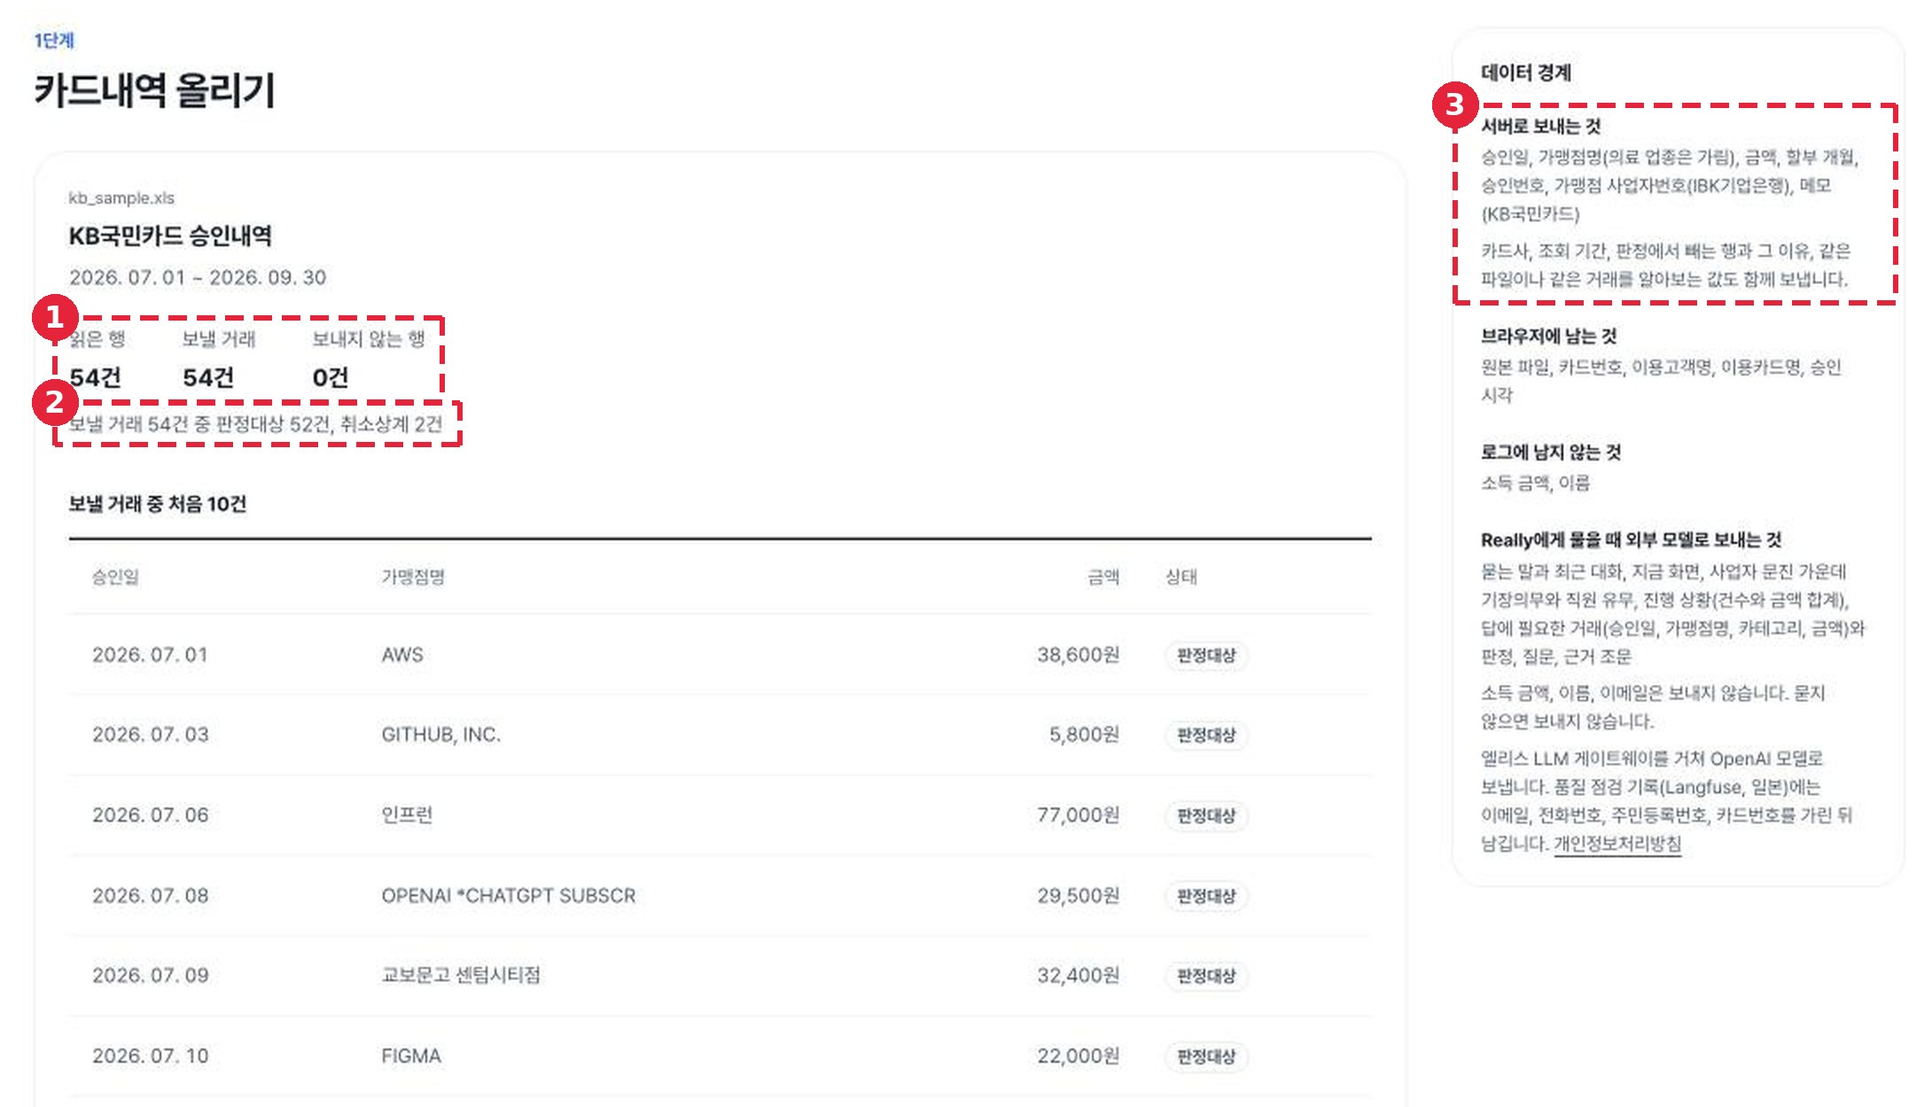
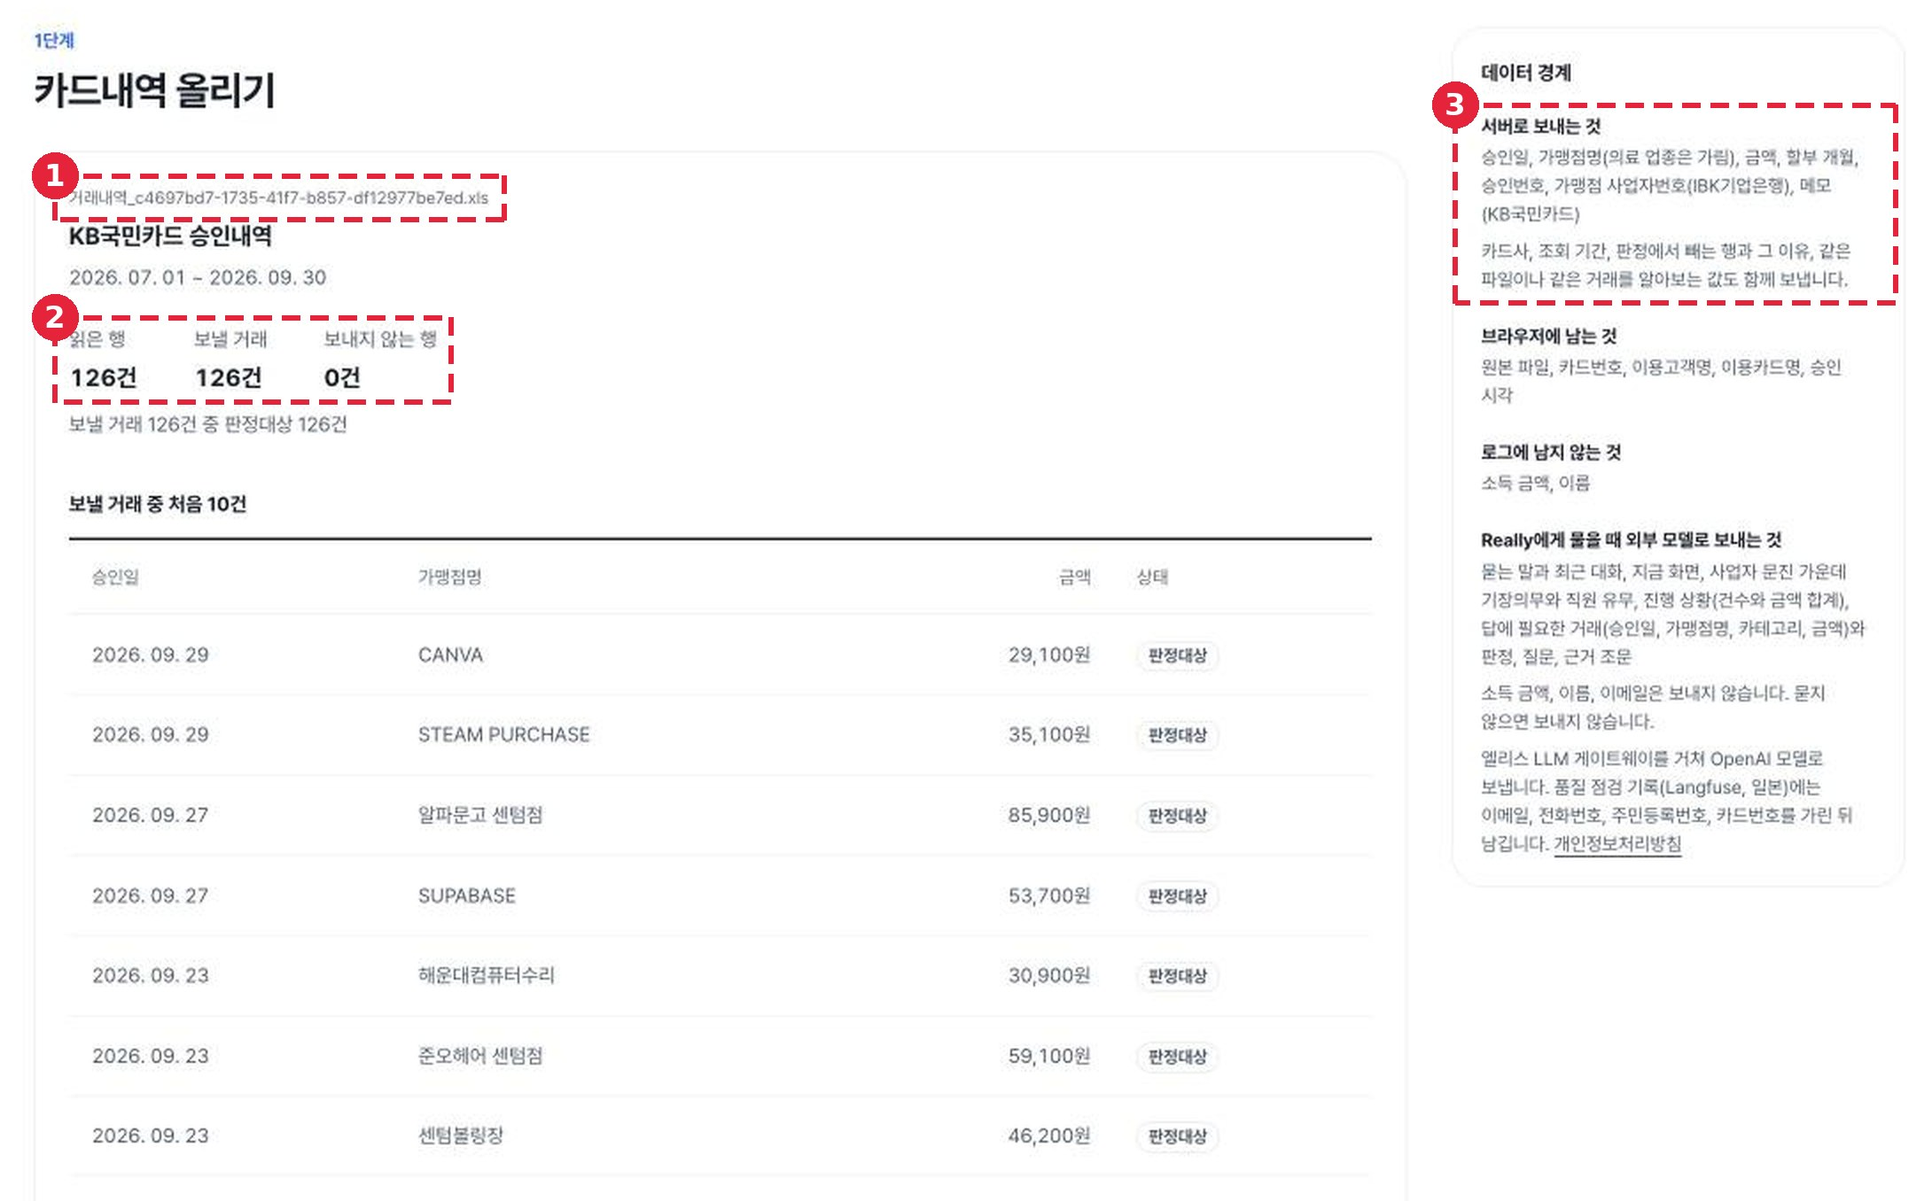
docs: 멘토 가이드를 무작위 카드내역 만들기 기준으로 다시 찍는다
#285 배포(#287) 뒤 업로드를 「무작위 카드내역 만들기」로 안내하고 3·5~9단계 캡처를 새로 찍었다.
분류 확인과 질문 일부 예시는 KB 샘플 캡처를 남기고, 무작위 데이터에서 다시 할 수 없는 중복 업로드 항목은 뺐다.

diff --git a/docs/mentor-guide/index.html b/docs/mentor-guide/index.html
@@ -141,11 +141,11 @@ table.example td:first-child{color:var(--muted);white-space:normal;width:50%}
 <body>
 <header class="top">
   <h1>PreeT 멘토 테스트 가이드</h1>
-  <p>PreeT는 1인 프리랜서(업종코드 940909)의 카드 승인내역을 올리면, 거래마다 경비로 넣을 수 있는지 판정하고 근거 조문을 보여주는 서비스입니다. 업로드 화면에 준비된 샘플 파일로 아래 순서를 따라가시면 서비스 전체 흐름을 한 번 보실 수 있습니다.</p>
+  <p>PreeT는 1인 프리랜서(업종코드 940909)의 카드 승인내역을 올리면, 거래마다 경비로 넣을 수 있는지 판정하고 근거 조문을 보여주는 서비스입니다. 업로드 화면에서 무작위 카드내역을 만들어 아래 순서를 따라가시면 서비스 전체 흐름을 한 번 보실 수 있습니다.</p>
   <ul class="facts">
     <li><b>주소</b><span>ktc4-pusan-4.duckdns.org</span></li>
     <li><b>계정</b><span>직접 가입 (어려우면 샘플 계정, 1단계)</span></li>
-    <li><b>샘플</b><span>업로드 화면의 「샘플 파일로 해 보기」</span></li>
+    <li><b>샘플 데이터</b><span>업로드 화면의 「무작위 카드내역 만들기」</span></li>
     <li><b>소요 시간</b><span>10~15분</span></li>
   </ul>
   <div class="cta">
@@ -170,7 +170,7 @@ table.example td:first-child{color:var(--muted);white-space:normal;width:50%}
           <tr><td><span class="v pend">답변 대기</span></td><td>개인 지출로 보여 일단 뺐지만, 업무였다고 답하면 다시 판정합니다.</td></tr>
         </tbody>
       </table>
-      <p class="hint">사진 속 빨간 번호는 사진 아래 설명의 번호와 같습니다. 사진을 누르면 크게 열립니다. 사진 속 거래와 금액은 예시이고, 직접 넣으신 값과 고르신 답에 따라 달라집니다.</p>
+      <p class="hint">사진 속 빨간 번호는 사진 아래 설명의 번호와 같습니다. 사진을 누르면 크게 열립니다. 사진 속 거래와 금액은 예시입니다. 카드내역이 매번 무작위로 만들어지고, 직접 넣으신 값과 고르신 답에 따라서도 달라집니다.</p>
     </div>
 
     <section class="step" id="s1" data-title="회원가입 · 로그인">
@@ -238,29 +238,29 @@ table.example td:first-child{color:var(--muted);white-space:normal;width:50%}
       <div class="num">3</div>
       <div class="body">
         <h2>카드내역 업로드</h2>
-        <p>업로드 화면 아래 「샘플 파일로 해 보기」에서 <b>KB국민카드 승인내역</b>을 누릅니다. 따로 파일을 준비하지 않아도 됩니다.</p>
+        <p>업로드 화면 아래 「샘플 파일로 해 보기」에서 <b>무작위 카드내역 만들기</b>를 누릅니다. 따로 파일을 준비하지 않아도 됩니다. 누를 때마다 새 카드내역이 만들어지므로, 멘토님마다 다른 데이터로 테스트하시게 됩니다.</p>
         <figure class="shot"><a href="img/03-upload.jpg" target="_blank"><img src="img/03-upload.jpg" alt="카드내역 올리기 화면" loading="lazy"></a></figure>
         <ol class="points">
-          <li>시연용 샘플이 KB국민카드 · IBK기업은행 두 가지 준비돼 있습니다. 실제로는 카드사에서 내려받은 승인내역 .xls를 고치지 않고 그대로 올립니다.</li>
+          <li><b>무작위 카드내역 만들기</b>를 누르면 100~300건짜리 KB국민카드 승인내역 파일이 바로 만들어집니다. 실제로는 카드사에서 내려받은 승인내역 .xls를 고치지 않고 그대로 올립니다.</li>
           <li><b>데이터 경계</b>에 서버로 보내는 것과 브라우저에만 남는 것이 나뉘어 있습니다. 카드번호 · 이름은 브라우저 밖으로 나가지 않고, 의료 업종 가맹점명은 가려서 보냅니다.</li>
         </ol>
-        <p class="sub">샘플을 고르면 미리보기가 나옵니다.</p>
+        <p class="sub">버튼 옆 ? 에 마우스를 올리면 이 기능이 무엇인지 나옵니다.</p>
+        <figure class="shot"><a href="img/03-tooltip.jpg" target="_blank"><img src="img/03-tooltip.jpg" alt="무작위 카드내역 안내" loading="lazy"></a></figure>
+        <ol class="points">
+          <li>파일은 브라우저에서 새로 만들어지고, 실제 파일과 똑같이 서버에 올려 판정합니다. 서버에 미리 넣어 둔 거래나 결과를 보여 주는 것이 아닙니다.</li>
+        </ol>
+        <p class="sub">누르면 바로 미리보기가 나옵니다.</p>
         <figure class="shot"><a href="img/03-preview.jpg" target="_blank"><img src="img/03-preview.jpg" alt="업로드 미리보기" loading="lazy"></a></figure>
         <ol class="points">
-          <li><b>읽은 행 · 보낼 거래 · 보내지 않는 행</b> 건수가 나옵니다. 0원 결제처럼 판정할 수 없는 행은 「보내지 않는 행」으로 이유와 함께 빠집니다.</li>
-          <li>결제와 그 취소가 함께 있으면 <b>취소상계</b>로 묶어 판정에서 뺍니다. 환불받은 돈이 경비로 잡히지 않습니다.</li>
+          <li>만들어진 파일 이름(<code>거래내역_…xls</code>)이 매번 다릅니다.</li>
+          <li><b>읽은 행 · 보낼 거래 · 보내지 않는 행</b> 건수가 나옵니다. 실제 파일이라면 0원 결제나 승인일 없는 행은 「보내지 않는 행」으로 이유와 함께 빠지고, 결제와 그 취소는 <b>취소상계</b>로 묶여 판정에서 빠집니다.</li>
           <li>서버로 보내는 항목이 하나하나 적혀 있습니다.</li>
         </ol>
         <p class="sub">「올리기」를 누릅니다.</p>
         <figure class="shot"><a href="img/03-uploaded.jpg" target="_blank"><img src="img/03-uploaded.jpg" alt="업로드 완료" loading="lazy"></a></figure>
         <ol class="points">
-          <li>카테고리를 정하지 못한 가맹점이 있으면 몇 건인지 알려 줍니다.</li>
-          <li>「다음: 분류 확인」으로 넘어갑니다.</li>
-        </ol>
-        <p class="sub">같은 샘플을 한 번 더 올려 보시면:</p>
-        <figure class="shot"><a href="img/03-dup.jpg" target="_blank"><img src="img/03-dup.jpg" alt="이미 올린 파일 안내" loading="lazy"></a></figure>
-        <ol class="points">
-          <li>「이미 올린 파일입니다」로 막히고 올리기 버튼이 꺼집니다. 같은 파일을 여러 번 올려도 경비가 부풀려지지 않습니다.</li>
+          <li>몇 건을 올렸는지 나옵니다.</li>
+          <li>다음 단계로 넘어갑니다. 문진을 아직 안 했다면 「다음: 사업자 문진」, 분류가 필요한 가맹점이 있으면 「다음: 분류 확인」, 둘 다 없으면 「다음: 판정 전 확인」이 나옵니다.</li>
         </ol>
       </div>
     </section>
@@ -269,7 +269,7 @@ table.example td:first-child{color:var(--muted);white-space:normal;width:50%}
       <div class="num">4</div>
       <div class="body">
         <h2>분류 확인</h2>
-        <p>처음 보는 가맹점은 판정 전에 어떤 지출인지 한 번 묻습니다.</p>
+        <p>처음 보는 가맹점이 있으면 판정 전에 어떤 지출인지 한 번 묻습니다. 무작위 카드내역에는 보통 없어서 이 단계를 건너뛰게 됩니다. 아래는 화면의 「KB국민카드 승인내역」 샘플로 올렸을 때 나오는 예시입니다.</p>
         <figure class="shot"><a href="img/04-preview.jpg" target="_blank"><img src="img/04-preview.jpg" alt="분류 확인 화면" loading="lazy"></a></figure>
         <ol class="points">
           <li>가맹점 이름을 보고 카테고리를 <b>추천</b>하고, 왜 그렇게 봤는지 예시와 함께 보여 줍니다. 추천을 누르거나 다른 카테고리를 고릅니다.</li>
@@ -282,7 +282,7 @@ table.example td:first-child{color:var(--muted);white-space:normal;width:50%}
       <div class="num">5</div>
       <div class="body">
         <h2>판정 전 확인 · 판정 실행</h2>
-        <p>분류를 마치면 「다음: 판정 전 확인」을 누릅니다.</p>
+        <p>「다음: 판정 전 확인」을 누릅니다.</p>
         <figure class="shot"><a href="img/05-confirm.jpg" target="_blank"><img src="img/05-confirm.jpg" alt="판정 전 확인 화면" loading="lazy"></a></figure>
         <ol class="points">
           <li>2단계에서 넣은 문진 값이 그대로 보입니다. 틀렸으면 오른쪽 위 연필 아이콘으로 고칩니다.</li>
@@ -290,7 +290,7 @@ table.example td:first-child{color:var(--muted);white-space:normal;width:50%}
         </ol>
         <figure class="shot"><a href="img/05-run.jpg" target="_blank"><img src="img/05-run.jpg" alt="판정 완료 화면" loading="lazy"></a></figure>
         <ol class="points">
-          <li>판정이 끝나면 거래가 가능 · 확인 필요 · 불가 · 답변 대기로 나뉘어 건수가 나옵니다.</li>
+          <li>판정이 끝나면 거래가 가능 · 확인 필요 · 불가(있으면 답변 대기까지)로 나뉘어 건수가 나옵니다. 무작위 카드내역은 매번 건수와 비율이 다릅니다.</li>
         </ol>
       </div>
     </section>
@@ -310,18 +310,18 @@ table.example td:first-child{color:var(--muted);white-space:normal;width:50%}
         <figure class="shot"><a href="img/06-allow.jpg" target="_blank"><img src="img/06-allow.jpg" alt="가능 거래 상세 예시" loading="lazy"></a></figure>
         <ol class="points">
           <li>업무 관련이 분명한 거래는 묻지 않고 바로 <b>가능</b>으로 인정합니다.</li>
-          <li>경비 가능 금액과 함께 <b>계정과목</b>까지 정해집니다.</li>
+          <li>경비 가능 금액과 함께 <b>계정과목</b>, 증빙 종류까지 정해집니다.</li>
           <li><b>근거 조문</b>이 시행 기간, 국가법령정보 원문 링크와 함께 붙습니다.</li>
         </ol>
-        <p class="sub">「불가」, 「확인 필요」, 「답변 대기」 거래도 눌러 봅니다.</p>
+        <p class="sub">「불가」 거래도 눌러 봅니다.</p>
         <figure class="shot"><a href="img/06-deny.jpg" target="_blank"><img src="img/06-deny.jpg" alt="불가 거래 상세 예시" loading="lazy"></a></figure>
         <ol class="points">
           <li>범칙금 · 세금처럼 법이 막는 지출은 <b>불가</b>입니다.</li>
           <li>왜 뺐는지 <b>판정 이유</b>가 한 문장으로 붙습니다.</li>
           <li>불가에도 근거 조문이 붙어, 사용자가 세무사에게 근거를 그대로 보여줄 수 있습니다.</li>
-          <li>전자기기 · 구독처럼 사실을 알아야 하는 거래는 <b>확인 필요</b>입니다. AI가 추측하지 않고, 사용자에게 사실을 확인받은 뒤 규칙이 판정합니다.</li>
-          <li>생활용품이나 주말 · 공휴일 식사처럼 개인 지출로 보이는 거래는 <b>답변 대기</b>입니다. 먼저 빼되, 업무였다면 살릴 길을 남깁니다.</li>
+          <li>병원 · 약국 거래는 가맹점명이 <b>의료기관 (이름 가림)</b>으로 바뀌어 있습니다. 진료 기록이 드러날 수 있는 이름은 서버로 보내지 않습니다.</li>
         </ol>
+        <p>그 밖에 전자기기 · 구독처럼 사실을 알아야 하는 거래는 <b>확인 필요</b>, 주말 · 공휴일 식사처럼 개인 지출로 보이는 거래는 <b>답변 대기</b>로 나옵니다. AI가 추측하지 않고 사용자에게 사실을 확인받은 뒤 규칙이 판정합니다.</p>
         <p class="sub">결과가 왜 이렇게 나왔는지 궁금하면 오른쪽 아래 버튼으로 비서 <b>Really</b>를 열어 물어봅니다. Really는 판정하지 않습니다. 판정은 규칙이 하고, Really는 결과를 이해하고 질문에 답하고 세무사에게 넘기는 일을 돕습니다.</p>
         <figure class="shot narrow"><a href="img/06-really-open.jpg" target="_blank"><img src="img/06-really-open.jpg" alt="Really 패널" loading="lazy"></a></figure>
         <ol class="points">
@@ -346,35 +346,31 @@ table.example td:first-child{color:var(--muted);white-space:normal;width:50%}
       <div class="num">7</div>
       <div class="body">
         <h2>질문에 답하기</h2>
-        <p>결과 화면의 「질문에 답하기」를 누릅니다. 실제 상황이라고 생각하고 자유롭게 답해 보세요. 답하면 그 자리에서 다시 판정됩니다.</p>
+        <p>결과 화면의 「질문에 답하기」를 누릅니다. 실제 상황이라고 생각하고 자유롭게 답해 보세요. 답하면 그 자리에서 다시 판정됩니다. 질문 수는 카드내역에 따라 다릅니다.</p>
         <figure class="shot"><a href="img/07-questions.jpg" target="_blank"><img src="img/07-questions.jpg" alt="질문 목록" loading="lazy"></a></figure>
         <ol class="points">
-          <li>질문은 거래마다 붙고, 금액이 큰 순서로 나옵니다.</li>
+          <li>거래마다 판정에 필요한 사실을 묻습니다. 금액이 큰 질문부터 나옵니다.</li>
         </ol>
-        <p class="sub">질문 몇 개에 답해 봅니다. 아래는 답이 금액에 어떻게 반영되는지 보여주는 예시입니다.</p>
-        <figure class="shot"><a href="img/07-himart.jpg" target="_blank"><img src="img/07-himart.jpg" alt="전자기기 답변 예시" loading="lazy"></a></figure>
+        <figure class="shot"><a href="img/07-answer.jpg" target="_blank"><img src="img/07-answer.jpg" alt="답변 결과" loading="lazy"></a></figure>
         <ol class="points">
           <li>답을 고르자마자 판정과 경비 가능 금액이 카드 안에 바로 나옵니다.</li>
           <li>남은 질문 수와 질문이 걸린 금액도 함께 줄어듭니다.</li>
         </ol>
+        <p class="sub">질문은 거래 종류에 따라 이렇게도 나옵니다. (「KB국민카드 승인내역」 샘플 예시)</p>
         <figure class="shot"><a href="img/07-kepco.jpg" target="_blank"><img src="img/07-kepco.jpg" alt="자택 겸용 답변 예시" loading="lazy"></a></figure>
         <ol class="points">
-          <li>전기요금 같은 공과금을 「자택 겸용」으로 답하면, 문진에서 넣은 작업 공간 비율만큼만 경비로 나옵니다. 「사업 전용」이면 전액입니다.</li>
+          <li>전기요금 같은 공과금을 「자택 겸용」으로 답하면, 문진에서 넣은 작업 공간 비율만큼만 경비로 나옵니다.</li>
         </ol>
         <figure class="shot"><a href="img/07-kyochon.jpg" target="_blank"><img src="img/07-kyochon.jpg" alt="주말 식사 답변 예시" loading="lazy"></a></figure>
         <ol class="points">
           <li>답변 대기 거래의 질문은 왜 뺐는지부터 설명합니다.</li>
-          <li>「거래처 접대」로 답하면 가능으로 바뀌고 계정과목이 기업업무추진비로 잡힙니다. 「개인 용도」로 답하면 불가로 확정됩니다.</li>
+          <li>「거래처 접대」로 답하면 가능으로 바뀌고 계정과목이 기업업무추진비로 잡힙니다.</li>
         </ol>
-        <p class="sub">파일을 하나 더 올려 보시면, 같은 가맹점 질문에는 지난번 답을 다시 쓸 수 있습니다.</p>
-        <figure class="shot"><a href="img/07-reuse.jpg" target="_blank"><img src="img/07-reuse.jpg" alt="지난 답 다시 쓰기" loading="lazy"></a></figure>
-        <ol class="points">
-          <li>어느 업로드에서 뭐라고 답했는지 보여 주고, 「이 답으로」 한 번에 적용합니다.</li>
-        </ol>
-        <p class="sub">몇 개 답한 뒤 「결과 보기」로 돌아갑니다.</p>
-        <figure class="shot"><a href="img/07-after.jpg" target="_blank"><img src="img/07-after.jpg" alt="답변 후 결과 합계" loading="lazy"></a></figure>
+        <p class="sub">질문을 다 답하고 「결과 보기」로 돌아갑니다.</p>
+        <figure class="shot"><a href="img/07-after.jpg" target="_blank"><img src="img/07-after.jpg" alt="답변 후 결과" loading="lazy"></a></figure>
         <ol class="points">
           <li>맨 위 경비 가능 금액이 답한 내용만큼 바뀌어 있습니다.</li>
+          <li>「답한 질문 보기」로 답을 다시 확인하거나 바꿀 수 있습니다.</li>
         </ol>
       </div>
     </section>
@@ -405,8 +401,8 @@ table.example td:first-child{color:var(--muted);white-space:normal;width:50%}
         <p>결과 화면 오른쪽 위 「요약 보기」를 누릅니다.</p>
         <figure class="shot"><a href="img/09-summary.jpg" target="_blank"><img src="img/09-summary.jpg" alt="요약 화면" loading="lazy"></a></figure>
         <ol class="points">
-          <li><b>계정과목별 경비 가능 금액</b>이 금액 순으로 정리됩니다. 거래마다 판정과 함께 정해진 계정과목(지급수수료, 소모품비, 도서인쇄비 등)을 모아 보여 주는 것이라, 세무사에게 넘길 때 다시 분류할 필요가 없습니다.</li>
-          <li><b>세무사에게 넘길 문장</b>에 지금까지의 결과와 기업업무추진비 한도가 정리됩니다. 한도는 1,200만 원 + 문진에 넣은 수입금액 × 0.3%입니다. 중소기업 특례 3,600만 원은 940909 면세 인적용역사업자에 적용되지 않습니다. (사전-2025-법규소득-0245)</li>
+          <li><b>계정과목별 경비 가능 금액</b>이 금액 순으로 정리됩니다. 거래마다 판정과 함께 정해진 계정과목을 모아 보여 주는 것이라, 세무사에게 넘길 때 다시 분류할 필요가 없습니다.</li>
+          <li><b>세무사에게 넘길 문장</b>에 지금까지의 결과가 정리됩니다. 접대비(기업업무추진비)가 있으면 한도도 함께 나옵니다. 한도는 1,200만 원 + 문진에 넣은 수입금액 × 0.3%입니다. 중소기업 특례 3,600만 원은 940909 면세 인적용역사업자에 적용되지 않습니다. (사전-2025-법규소득-0245)</li>
           <li>복사 아이콘으로 이 문장을 그대로 세무사에게 보낼 수 있습니다.</li>
           <li>인쇄 아이콘으로 요약을 PDF로 저장할 수 있습니다.</li>
         </ol>

diff --git a/docs/mentor-guide/README.md b/docs/mentor-guide/README.md
@@ -5,5 +5,5 @@
 - `index.html` — 가이드 본문. 브라우저로 열면 됩니다. GitHub 화면에서는 코드로 보이니 폴더를 내려받아 여세요.
 - `img/` — 단계별 실서버 캡처. 빨간 점선 번호가 본문 설명 번호와 짝입니다.
 
-업로드는 화면의 「샘플 파일로 해 보기 → KB국민카드 승인내역」(#282 시연용 54행)을 씁니다.
-캡처는 2026-11-09 18시 배포(#283) 기준입니다. 화면이 바뀌면 캡처도 다시 찍어야 합니다.
+업로드는 화면의 「샘플 파일로 해 보기 → 무작위 카드내역 만들기」(#285)를 씁니다. 누를 때마다 새 카드내역이 만들어집니다.
+캡처는 2026-11-10 배포(#287) 기준입니다. 분류 확인 · 질문 예시 일부는 「KB국민카드 승인내역」 샘플로 찍었습니다. 화면이 바뀌면 캡처도 다시 찍어야 합니다.
